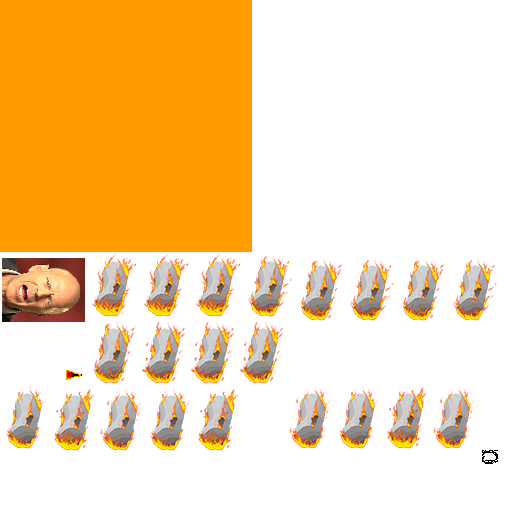
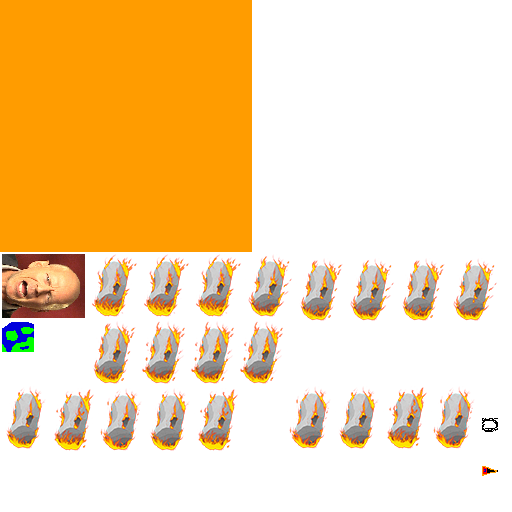
Noddegamra v.0.41

diff --git a/games/noddegamra/scripts/c3runtime.js b/games/noddegamra/scripts/c3runtime.js
@@ -563,10 +563,12 @@ self.C3_GetObjectRefTable = function () {
 		C3.Plugins.System.Acts.SetVar,
 		C3.Plugins.System.Acts.SetLayerVisible,
 		C3.Plugins.Sprite.Acts.SetVisible,
+		C3.Plugins.System.Acts.SetBoolVar,
 		C3.Plugins.Sprite.Acts.Destroy,
 		C3.Plugins.System.Cnds.EveryTick,
 		C3.Plugins.Text.Acts.SetText,
 		C3.Plugins.System.Cnds.Every,
+		C3.Plugins.System.Cnds.CompareBoolVar,
 		C3.Plugins.System.Acts.AddVar,
 		C3.Plugins.System.Acts.CreateObject,
 		C3.Plugins.System.Cnds.IsGroupActive,
@@ -589,11 +591,10 @@ self.C3_GetObjectRefTable = function () {
 		C3.Plugins.Sprite.Cnds.IsOnScreen,
 		C3.Plugins.System.Cnds.Else,
 		C3.Behaviors.EightDir.Acts.SetEnabled,
+		C3.Plugins.TiledBg.Acts.MoveToLayer,
 		C3.Plugins.Keyboard.Cnds.OnKey,
 		C3.Plugins.System.Cnds.LayerVisible,
 		C3.Plugins.System.Acts.RestartLayout,
-		C3.Plugins.System.Cnds.CompareBoolVar,
-		C3.Plugins.System.Acts.SetBoolVar,
 		C3.Plugins.Sprite.Acts.SetOpacity,
 		C3.Plugins.Sprite.Acts.SetSize
 	];
@@ -695,9 +696,10 @@ self.C3_GetObjectRefTable = function () {
 	}
 
 	self.C3_ExpressionFuncs = [
-		() => 7,
+		() => 70,
 () => 0,
 () => 1,
+() => 4,
 () => 3,
 () => 2,
 p => {
@@ -711,6 +713,11 @@ return () => ((Math.round(v0.GetValue())).toString() + " kilometers traveled");
 p => {
 const v0 = p._GetNode(0).GetVar();
 return () => v0.GetValue();
+},
+p => {
+const v0 = p._GetNode(0).GetVar();
+const v1 = p._GetNode(1).GetVar();
+return () => and("Distance to Earth ", (v0.GetValue() - v1.GetValue()));
 },
 p => {
 const v0 = p._GetNode(0).GetVar();
@@ -737,7 +744,6 @@ return () => (n0.ExpBehavior() * v1.GetValue());
 },
 () => 1.5,
 () => "Появление и поведение ракеты",
-() => 4,
 () => 30,
 p => {
 const f0 = p._GetNode(0).GetBoundMethod();
@@ -795,6 +801,7 @@ return () => (n0.ExpObject() + 1);
 () => 100,
 () => 400,
 () => 550,
+() => 0.7,
 p => {
 const f0 = p._GetNode(0).GetBoundMethod();
 return () => f0(1, 10);
@@ -810,6 +817,10 @@ return () => f0(0, 800);
 p => {
 const f0 = p._GetNode(0).GetBoundMethod();
 return () => f0(670, 700);
+},
+p => {
+const n0 = p._GetNode(0);
+return () => (n0.ExpObject() - 5);
 }
 	];
 }
